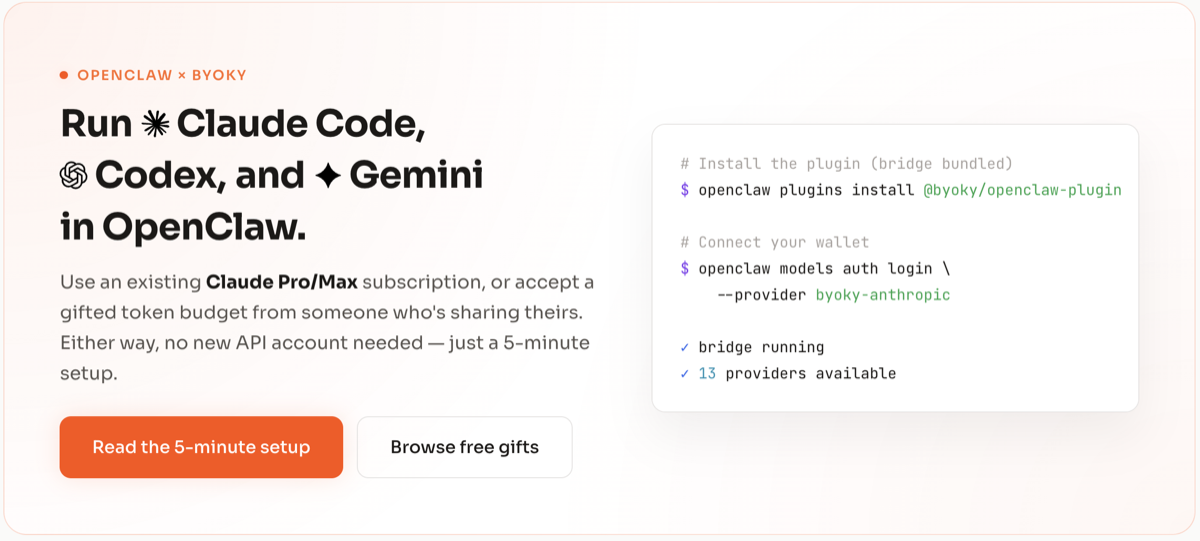
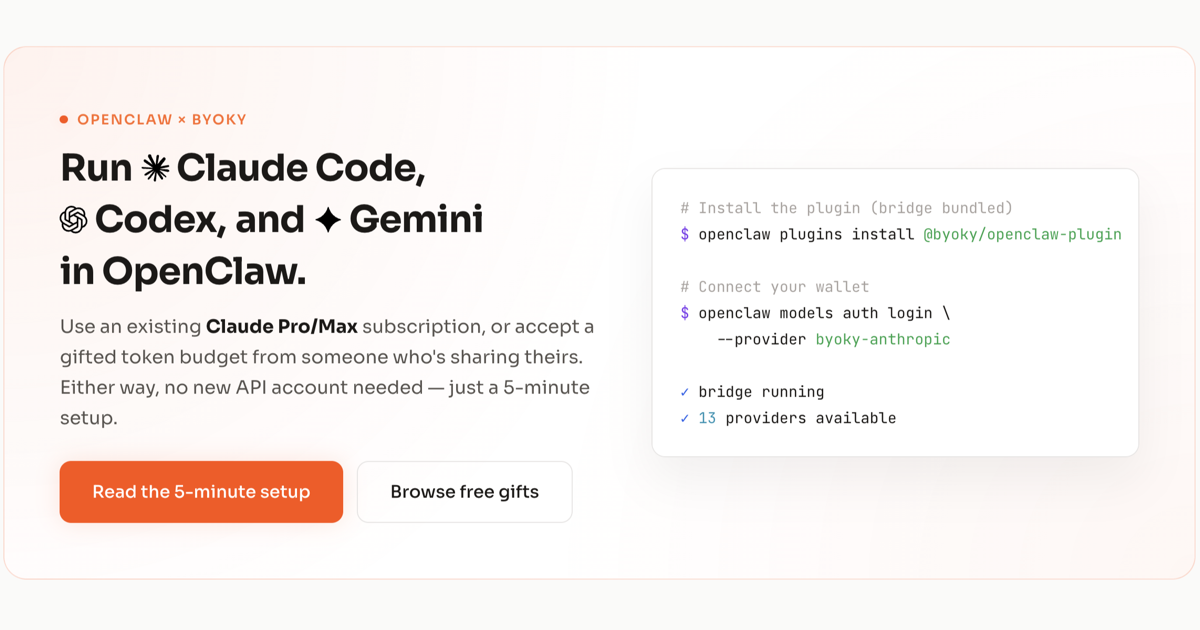
web: pad openclaw OG to 1200x630 to avoid social crop

diff --git a/packages/web/app/openclaw/page.tsx b/packages/web/app/openclaw/page.tsx
@@ -18,7 +18,7 @@ export const metadata: Metadata = {
       {
         url: '/openclaw-og.png',
         width: 1200,
-        height: 541,
+        height: 630,
         alt: 'Run Claude Code, Codex, and Gemini in OpenClaw — with Byoky',
       },
     ],
